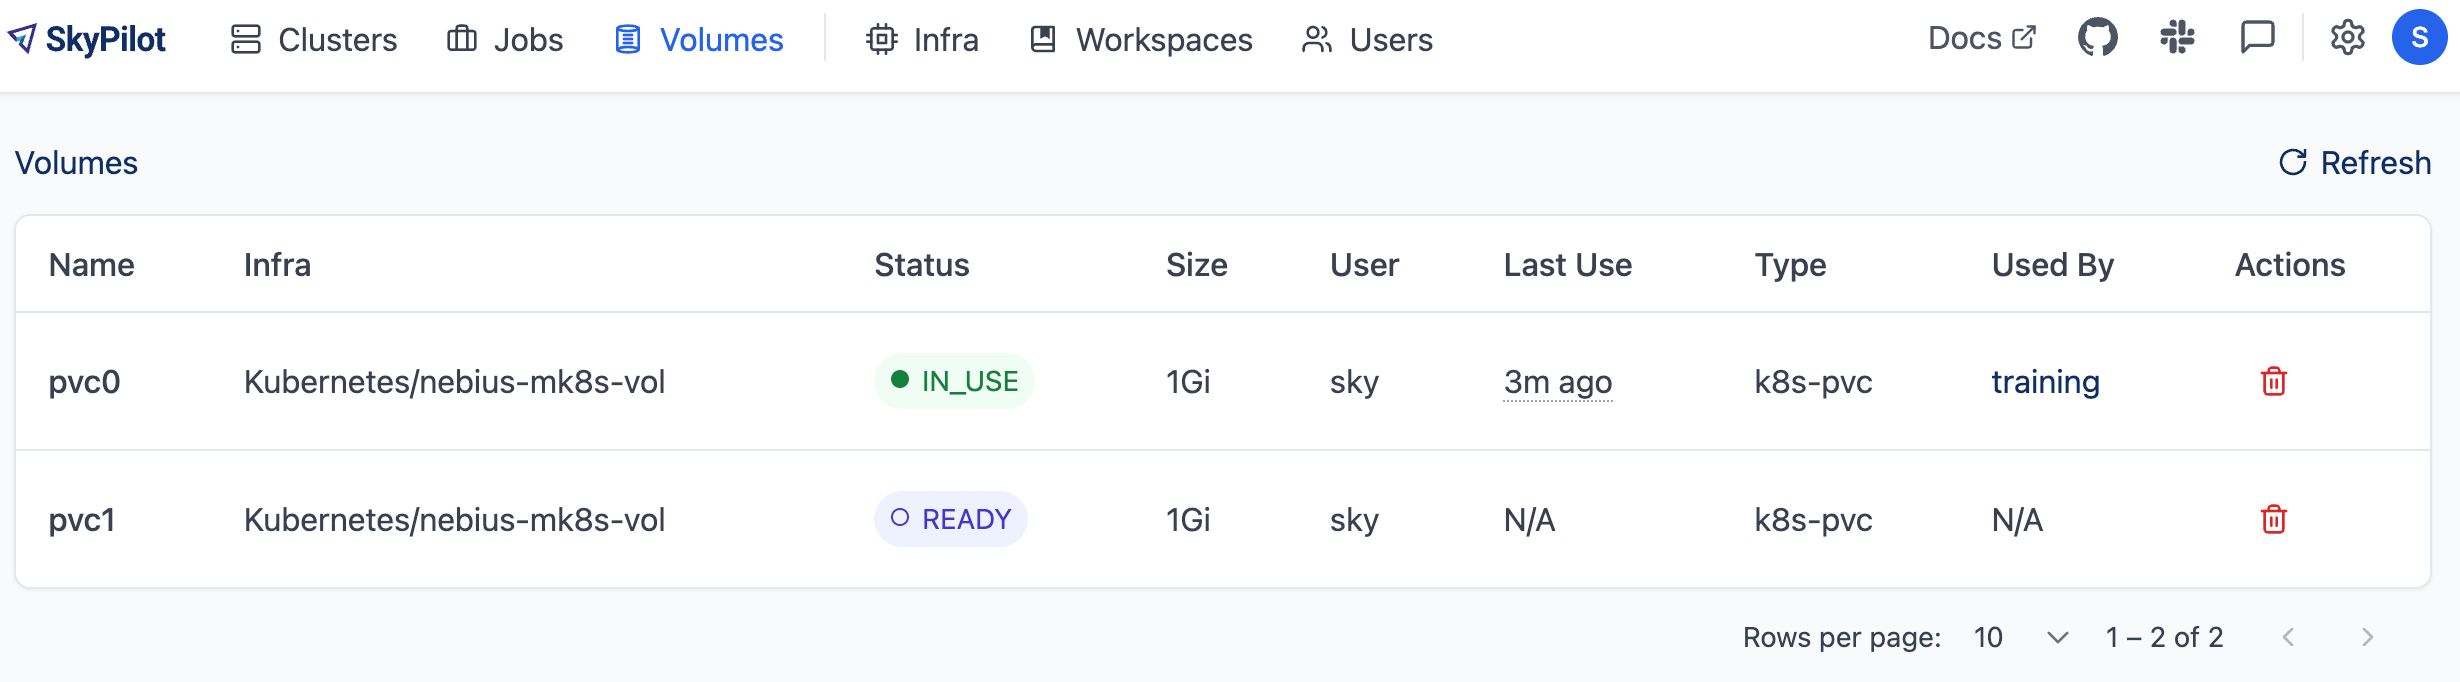
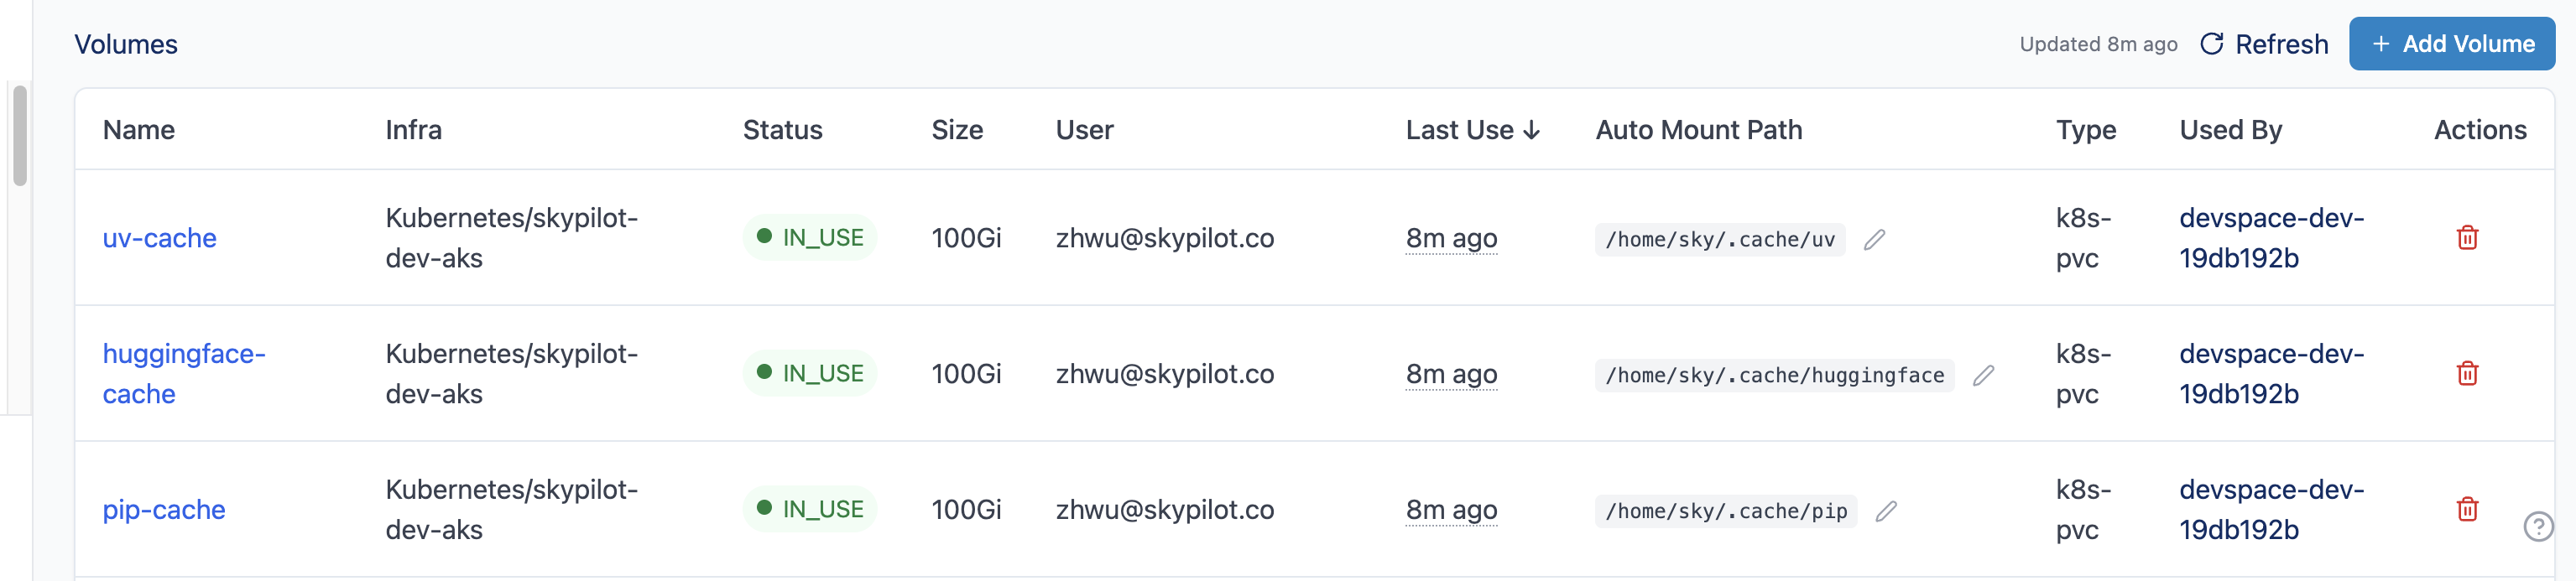
[Docs] Add "SkyPilot for Frontier AI" page
A single dedicated page for teams running SkyPilot at scale to discover
production-grade capabilities and reach out to the SkyPilot team.

Positioning: complementary offerings + dedicated support on top of
SkyPilot for production deployments — not a "missing in OSS" framing.

The page surfaces nine capabilities (one short card each, no
implementation detail): high availability and dedicated support,
Devspace, GPU Manager, Quota, secrets management, SSO, notifications,
GitHub integration, and production-ready serving. Top + bottom CTAs
point to the production-scale interest form and [email redacted].

Wired into the sidebar at the end of the "Getting Started" section.

diff --git a/docs/source/_static/custom.js b/docs/source/_static/custom.js
@@ -41,6 +41,7 @@ document.addEventListener('DOMContentLoaded', () => {
         { selector: '.toctree-l1 > a', text: 'Using Slurm' },
         { selector: '.toctree-l1 > a', text: 'SkyPilot Recipes' },
         { selector: '.toctree-l1 > a', text: 'Agent Skills' },
+        { selector: '.toctree-l1 > a', text: 'For Frontier AI' },
         { selector: '.toctree-l2 > a', text: 'Agents' },
     ];
     newItems.forEach(({ selector, text }) => {

diff --git a/docs/source/frontier-ai.rst b/docs/source/frontier-ai.rst
@@ -1,0 +1,91 @@
+.. _skypilot-frontier-ai:
+
+.. rst-class:: hero-title
+
+SkyPilot for Frontier AI
+========================
+
+SkyPilot is used by AI teams of all sizes, from individual researchers to organizations running thousands of GPUs across Kubernetes, Slurm, and 20+ clouds.
+
+For **AI infra and platform teams supporting frontier AI work**, **SkyPilot Platform** extends SkyPilot OSS with capabilities tuned for production at scale:
+
+- **Researcher productivity** — persistent dev environments for engineers and AI agents; fast launches across the AI lifecycle: large-scale pre-training, SFT and RL post-training, batch inference, RL rollouts, and parallel evals.
+- **Higher GPU utilization** — multi-team quotas with borrowing and preemption, fleet-wide observability, idle reclamation.
+- **Less firefighting** — instant GPU failure detection and recovery across XID, NVML, NCCL, and dmesg signals, with Slack alerts.
+- **Production deployments** — multi-cluster model serving (SkyServe v2), HA managed API server, encrypted secrets, SSO.
+
+With **10× faster cluster launches**, already running at deployments of **200+ users** and **10,000+ GPUs**.
+
+.. tip::
+
+   Interested? The SkyPilot team would love to talk to you. `Sign up here <https://forms.gle/HGGMjzvRz8Mqn9pn7>`_; takes 20 seconds.
+
+What's in SkyPilot Platform
+---------------------------
+
+For researchers and AI agents
+~~~~~~~~~~~~~~~~~~~~~~~~~~~~~
+
+💻 **SkyPilot Devspaces** — Researchers spin up GPU-backed VSCode workspaces in seconds, in the browser. Run fleets of AI coding agents in parallel; dynamic CPU ↔ GPU switching with environment and code persisted; no SSH config.
+
+.. image:: images/devspaces.png
+   :alt: SkyPilot Devspaces: in-browser VSCode with CPU/GPU switching
+   :align: center
+   :width: 90%
+
+🚀 **Large-scale training launches** — Coordinated provisioning across thousands of GPUs for **pre-training**, **SFT post-training**, and **RL post-training**. 5K-node training jobs in under a minute, with gang scheduling, topology/rack-aware scheduling, and high-bandwidth networking pre-wired.
+
+.. code-block:: yaml
+
+   resources:
+     accelerators: B200:8
+   num_nodes: 5000
+
+⚡ **Fast parallel jobs and sandboxes** — Launch thousands of parallel jobs and sandboxes in seconds, for RL rollouts, parallel evals, and agent sandboxes. Tight integration with SkyPilot job groups.
+
+For infra teams
+~~~~~~~~~~~~~~~
+
+📊 **SkyPilot GPU Manager** — Proactive and reactive health checks across the fleet, with instant GPU failure detection and auto-remediation. Catches XID errors, NVML failures, NCCL timeouts, dmesg errors, and more; taints bad nodes, recovers jobs, notifies the team.
+
+.. image:: images/gpu-manager.png
+   :alt: SkyPilot GPU Manager: fleet-wide health, allocation, and utilization
+   :align: center
+   :width: 90%
+
+📡 **SkyServe v2: production-ready model serving** — High-performance, multi-cluster model serving with cache-aware routing, PD disaggregation, autoscaling, rolling updates, and TLS / API-key auth. Share GPU capacity dynamically between training and serving on the same fleet.
+
+.. image:: images/skyserve.png
+   :alt: SkyServe v2: endpoint metrics and multi-cluster serving
+   :align: center
+   :width: 90%
+
+🎯 **SkyPilot Quotas** — Per-team and per-user GPU quotas with priority, preemption, dynamic borrowing, fairness, and reclamation across the fleet.
+
+📦 **Volumes and Auto Mounts** — Persistent storage on Kubernetes (NFS, VAST, Weka, EFS, Alluxio, host volumes). Auto Mounts attach a volume to every workload on a cluster, with no task YAML changes required.
+
+.. image:: images/volumes.png
+   :alt: SkyPilot Volumes: persistent uv/HF/pip caches auto-mounted across workloads
+   :align: center
+   :width: 90%
+
+🔔 **Notifications** — Slack alerts for GPU failures, job lifecycle events, preemptions, and cluster events. Configurable per channel, with event-type and workspace filters.
+
+🛟 **Managed SkyPilot Service** — Fully managed, high-availability SkyPilot API server operated by the maintainers, with up to 10× faster cluster launches, SSH, CLI, and dashboard.
+
+For security and identity
+~~~~~~~~~~~~~~~~~~~~~~~~~
+
+🔐 **Secrets Manager** — Store API keys, tokens, and credentials encrypted at rest and in transit (AES-256). Scoped per user, team, or workspace, and injected directly into Devspaces, clusters, and jobs.
+
+🔑 **SSO with Okta, Google Workspace, OIDC** — Tie SkyPilot access to your existing identity system, with per-team and per-workspace permissions.
+
+.. note::
+
+   SOC 2 is available.
+
+----
+
+.. tip::
+
+   Interested? The SkyPilot team would love to talk to you. `Sign up here <https://forms.gle/HGGMjzvRz8Mqn9pn7>`_; takes 20 seconds.

diff --git a/docs/source/docs/index.rst b/docs/source/docs/index.rst
@@ -280,6 +280,7 @@ Follow updates:
    Agent Skills <../getting-started/skill>
    ../examples/index
    ../sky-computing
+   For Frontier AI <../frontier-ai>
 
 .. toctree::
    :hidden: